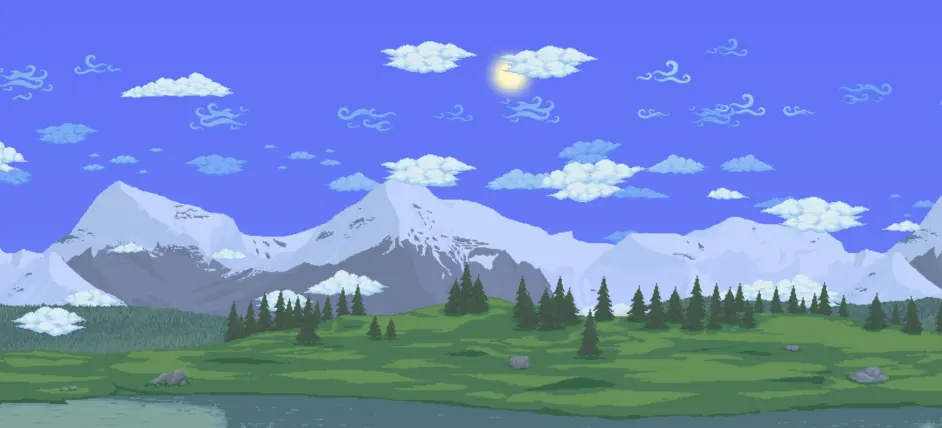
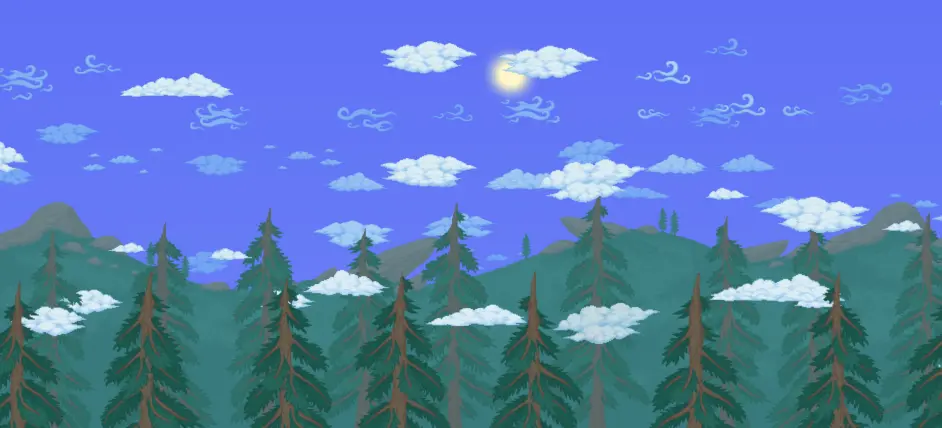
feat: 新增走走哥布林

diff --git a/index.html b/index.html
@@ -28,38 +28,52 @@
     scene.preload = function () {
         this.load.image('bg1', './img/background.webp');
         this.load.image('bg2', './img/background2.webp');
+        this.load.image('player', './img/GG.gif');
     }
 
     // 建立地圖
     scene.create = function () {
-        let bg = this.add.sprite(0, 0, 'bg1')
+        let bg = this.add.sprite(0, 0, 'bg2')
 
         //取得寬高
         let width = this.sys.game.config.width
         let height = this.sys.game.config.height
         bg.setPosition(width / 2, height / 2)
+
+        this.player = this.add.sprite(50, 223, 'player')
+        this.player.setAngle(20)
     }
 
-    let gameTime = 0;
+    scene.init = function () {
+        // 設定 player 的速度
+        this.playerSpeed = 1
+    }
+
+
     //更新畫面
     scene.update = function () {
-        gameTime++;
-        if (gameTime === 1000) {
-            let bg = this.add.sprite(0, 0, 'bg2')
-
-            //取得寬高
-            let width = this.sys.game.config.width
-            let height = this.sys.game.config.height
-            bg.setPosition(width / 2, height / 2)
-        } else if (gameTime === 2000) {
-            gameTime = 0;
-            let bg = this.add.sprite(0, 0, 'bg1')
-
-            //取得寬高
-            let width = this.sys.game.config.width
-            let height = this.sys.game.config.height
-            bg.setPosition(width / 2, height / 2)
+        if (this.input.activePointer.isDown) {
+            this.player.x += this.playerSpeed
         }
+
+        // this.player.angle += 0.5
+        // gameTime++;
+        // if (gameTime === 1000) {
+        //     let bg = this.add.sprite(0, 0, 'bg2')
+
+        //     //取得寬高
+        //     let width = this.sys.game.config.width
+        //     let height = this.sys.game.config.height
+        //     bg.setPosition(width / 2, height / 2)
+        // } else if (gameTime === 2000) {
+        //     gameTime = 0;
+        //     let bg = this.add.sprite(0, 0, 'bg1')
+
+        //     //取得寬高
+        //     let width = this.sys.game.config.width
+        //     let height = this.sys.game.config.height
+        //     bg.setPosition(width / 2, height / 2)
+        // }
     }
 
     let game = new Phaser.Game(config)
